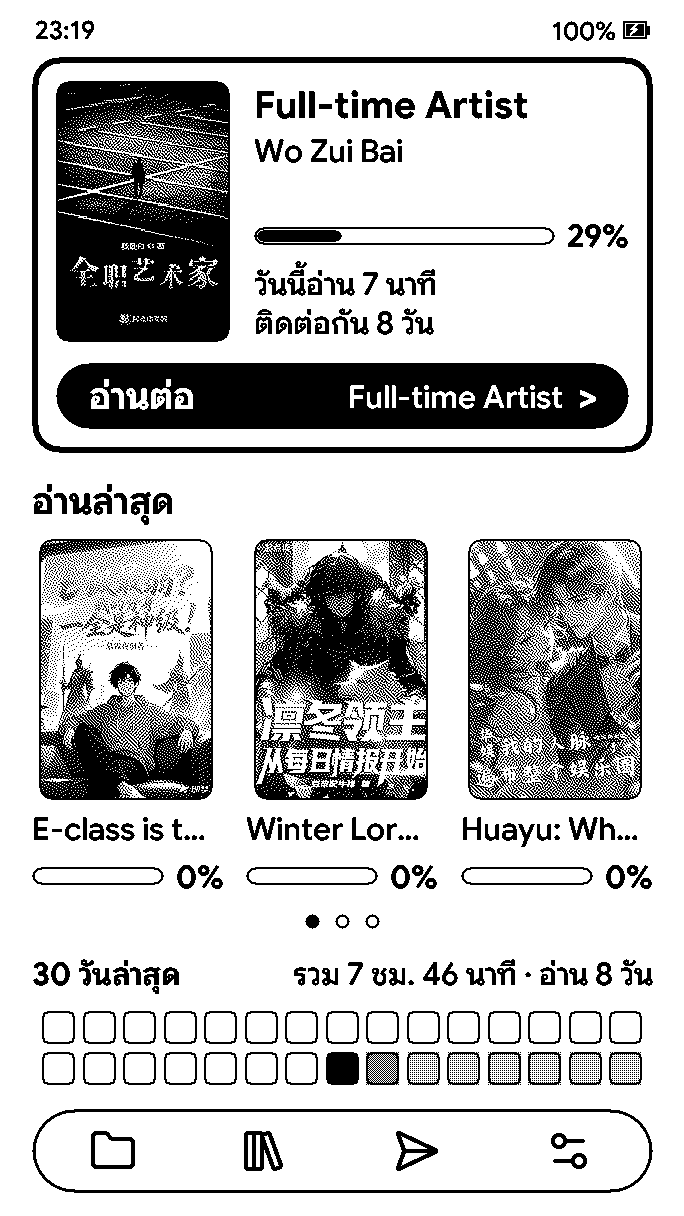
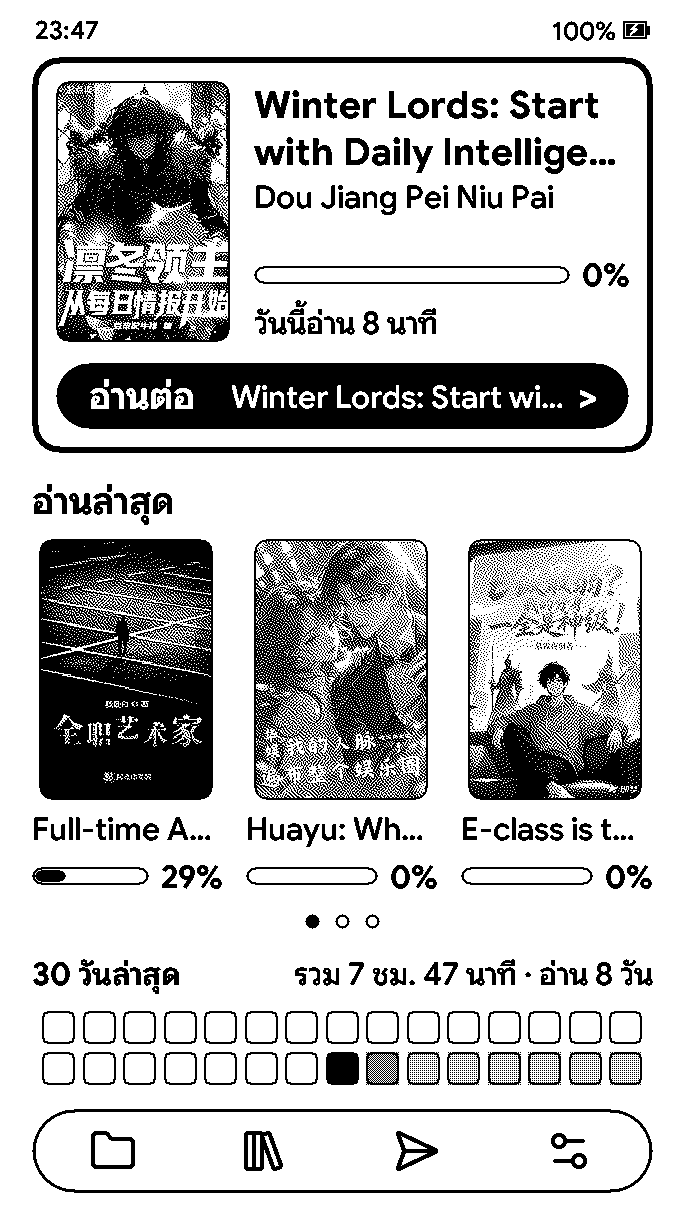
fix: two-line title on the Shelf card, drop the streak
The current book's title gets up to two lines before the author; the
reading line keeps only today's minutes ("วันนี้อ่าน N นาที"), shown
when today has reading. STR_SHELF_STREAK is removed. README, USER_GUIDE
and the Shelf screenshot follow.

Verified: host tests pass; checked on the E-Ink4-Plus by serial
screenshot.

diff --git a/src/components/ShelfHome.cpp b/src/components/ShelfHome.cpp
@@ -152,26 +152,13 @@ void ShelfHome::drawCard(const GfxRenderer& renderer, const RecentBook* book, co
     const bool hasDate = ReadingLogStore::localDate(date);
     const int32_t today = hasDate ? ReadingLogStore::dayNumber(date) : -1;
     const int minutes = hasDate ? static_cast<int>((READING_LOG.secondsOn(today) + 30) / 60) : 0;
-    const int streak = hasDate ? READING_LOG.streak(today) : 0;
-    if (shelf::showReadingLine(hasDate, minutes, streak)) {
+    if (shelf::showReadingLine(hasDate, minutes)) {
       char duration[32];
       homeui::formatDuration(duration, sizeof(duration), static_cast<uint32_t>(minutes));
-      char today[96];
-      char streakText[64];
-      snprintf(today, sizeof(today), "%s %s", tr(STR_SHELF_READ_TODAY), duration);
-      snprintf(streakText, sizeof(streakText), "%s %d %s", tr(STR_SHELF_STREAK), streak, tr(STR_UNIT_DAYS));
-      char line[160];
-      snprintf(line, sizeof(line), "%s · %s", today, streakText);
-      // Too wide for one line: today's time above the streak.
-      if (renderer.getTextWidth(UI_10_FONT_ID, line) <= w) {
-        bottom -= smallH;
-        renderer.drawText(UI_10_FONT_ID, x, bottom, line, true);
-      } else {
-        bottom -= smallH;
-        renderer.drawText(UI_10_FONT_ID, x, bottom, renderer.truncatedText(UI_10_FONT_ID, streakText, w).c_str(), true);
-        bottom -= smallH;
-        renderer.drawText(UI_10_FONT_ID, x, bottom, renderer.truncatedText(UI_10_FONT_ID, today, w).c_str(), true);
-      }
+      char line[96];
+      snprintf(line, sizeof(line), "%s %s", tr(STR_SHELF_READ_TODAY), duration);
+      bottom -= smallH;
+      renderer.drawText(UI_10_FONT_ID, x, bottom, renderer.truncatedText(UI_10_FONT_ID, line, w).c_str(), true);
       bottom -= 6;
     }
     if (progress[0] >= 0) {
@@ -181,15 +168,15 @@ void ShelfHome::drawCard(const GfxRenderer& renderer, const RecentBook* book, co
     }
 
     const int space = bottom - cover.y;
-    const bool showAuthor = !book->author.empty() && space >= titleH + smallH + 2;
-    const int titleLines = std::clamp((space - (showAuthor ? smallH + 2 : 0)) / std::max(1, titleH), 1, 2);
+    // The title takes up to two lines first; the author shows if it still fits.
+    const int titleLines = std::clamp(space / std::max(1, titleH), 1, 2);
+    const auto lines = renderer.wrappedText(UI_12_FONT_ID, book->title.c_str(), w, titleLines, EpdFontFamily::BOLD);
     int y = cover.y;
-    for (const auto& line :
-         renderer.wrappedText(UI_12_FONT_ID, book->title.c_str(), w, titleLines, EpdFontFamily::BOLD)) {
+    for (const auto& line : lines) {
       renderer.drawText(UI_12_FONT_ID, x, y, line.c_str(), true, EpdFontFamily::BOLD);
       y += titleH;
     }
-    if (showAuthor) {
+    if (!book->author.empty() && y + 2 + smallH <= bottom) {
       renderer.drawText(UI_10_FONT_ID, x, y + 2, renderer.truncatedText(UI_10_FONT_ID, book->author.c_str(), w).c_str(),
                         true);
     }

diff --git a/src/components/ShelfLayout.h b/src/components/ShelfLayout.h
@@ -39,8 +39,6 @@ constexpr int heatGridWidth(const int cell) { return HEAT_COLUMNS * cell + (HEAT
 constexpr int heatGridHeight(const int cell) { return HEAT_ROWS * cell + (HEAT_ROWS - 1) * HEAT_GAP; }
 
 // The reading-time line needs a local date and something to report.
-constexpr bool showReadingLine(const bool hasDate, const int minutesToday, const int streakDays) {
-  return hasDate && (minutesToday > 0 || streakDays > 0);
-}
+constexpr bool showReadingLine(const bool hasDate, const int minutesToday) { return hasDate && minutesToday > 0; }
 
 }  // namespace shelf

diff --git a/test/shelf_layout/ShelfLayoutTest.cpp b/test/shelf_layout/ShelfLayoutTest.cpp
@@ -48,8 +48,7 @@ TEST(ShelfLayout, HeatGridSize) {
 }
 
 TEST(ShelfLayout, ReadingLineNeedsDateAndActivity) {
-  EXPECT_FALSE(shelf::showReadingLine(false, 25, 4));
-  EXPECT_FALSE(shelf::showReadingLine(true, 0, 0));
-  EXPECT_TRUE(shelf::showReadingLine(true, 0, 3));
-  EXPECT_TRUE(shelf::showReadingLine(true, 12, 0));
+  EXPECT_FALSE(shelf::showReadingLine(false, 25));
+  EXPECT_FALSE(shelf::showReadingLine(true, 0));
+  EXPECT_TRUE(shelf::showReadingLine(true, 12));
 }

diff --git a/USER_GUIDE.md b/USER_GUIDE.md
@@ -262,7 +262,7 @@ Settings are grouped into **System**, **Display**, **Reader**, **Controls**, **L
   - "Ledger" - The current book large, with recent books in a progress table
   - "Today" - Reading time for the last 7 days, the current book and the reading streak
   - "Calendar" (default on devices with a clock) - A clock, today's reading time and a monthly reading calendar. Devices without a clock (the original X4) default to "Lyra"
-  - "Shelf" - The current book in a card with its progress and a resume button, today's reading time and streak (on devices with a clock), up to 9 recent covers shown 3 at a time (swipe left or right, or move past the last cover, to turn the page), a 30-day reading activity grid (needs the clock; the history starts from the current month after updating), and a tool bar at the bottom
+  - "Shelf" - The current book in a card with its progress and a resume button, today's reading time (on devices with a clock), up to 9 recent covers shown 3 at a time (swipe left or right, or move past the last cover, to turn the page), a 30-day reading activity grid (needs the clock; the history starts from the current month after updating), and a tool bar at the bottom
 
 - **Sunlight Fading Fix**: Configure whether to enable a software-fix for the issue where white X4 models may fade when used in direct sunlight:
   
